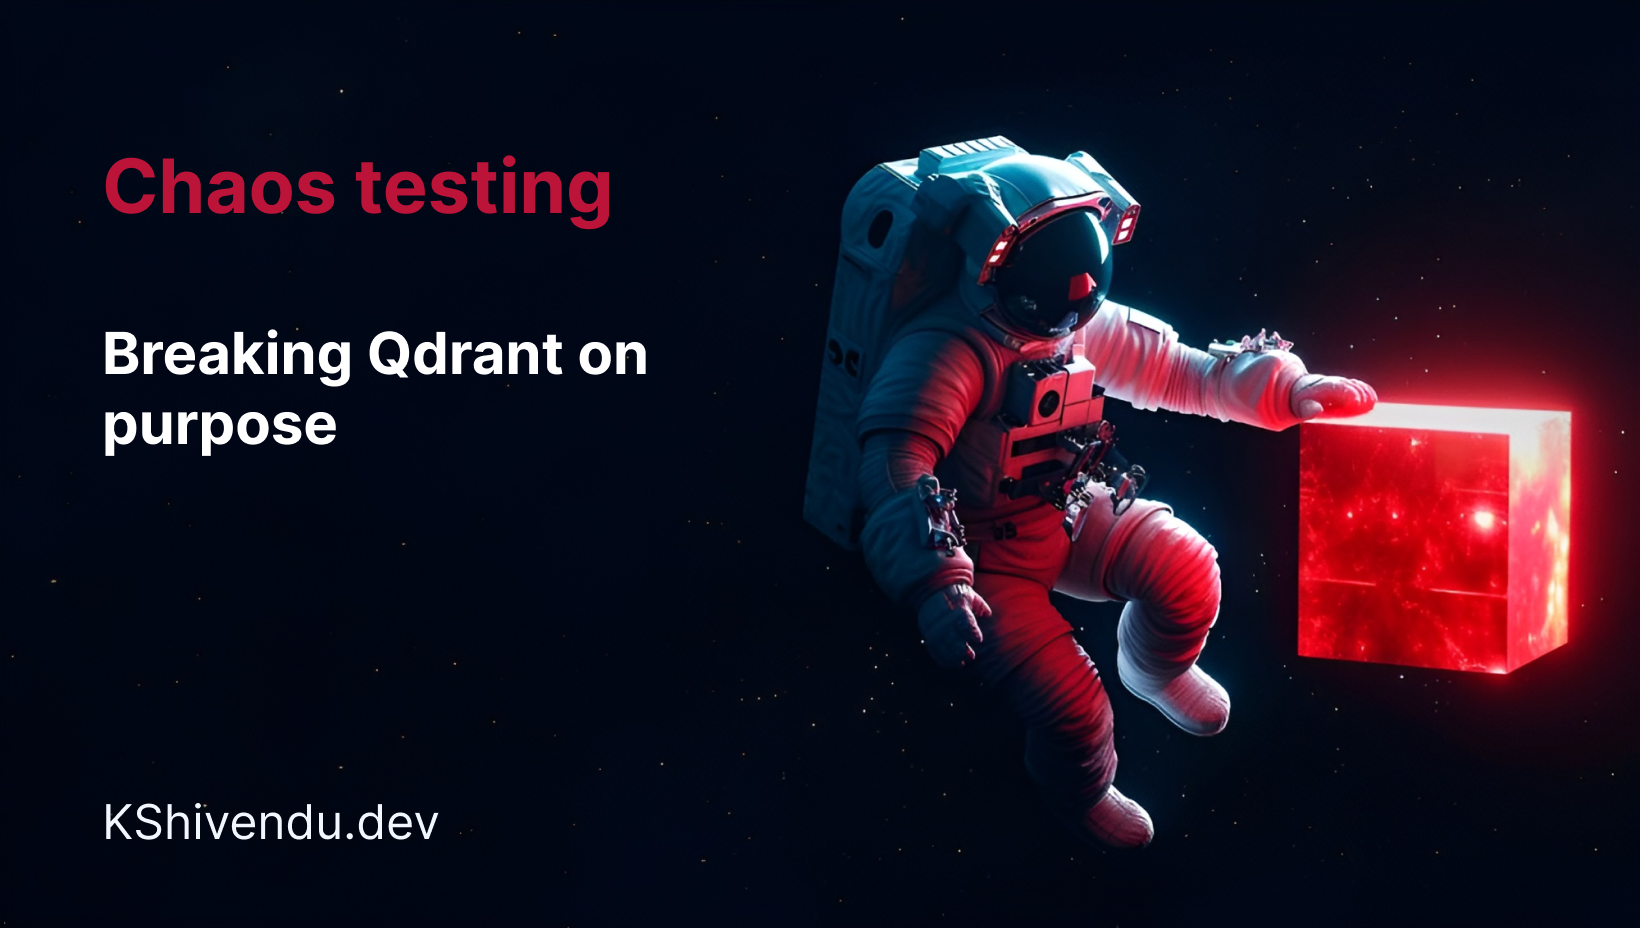
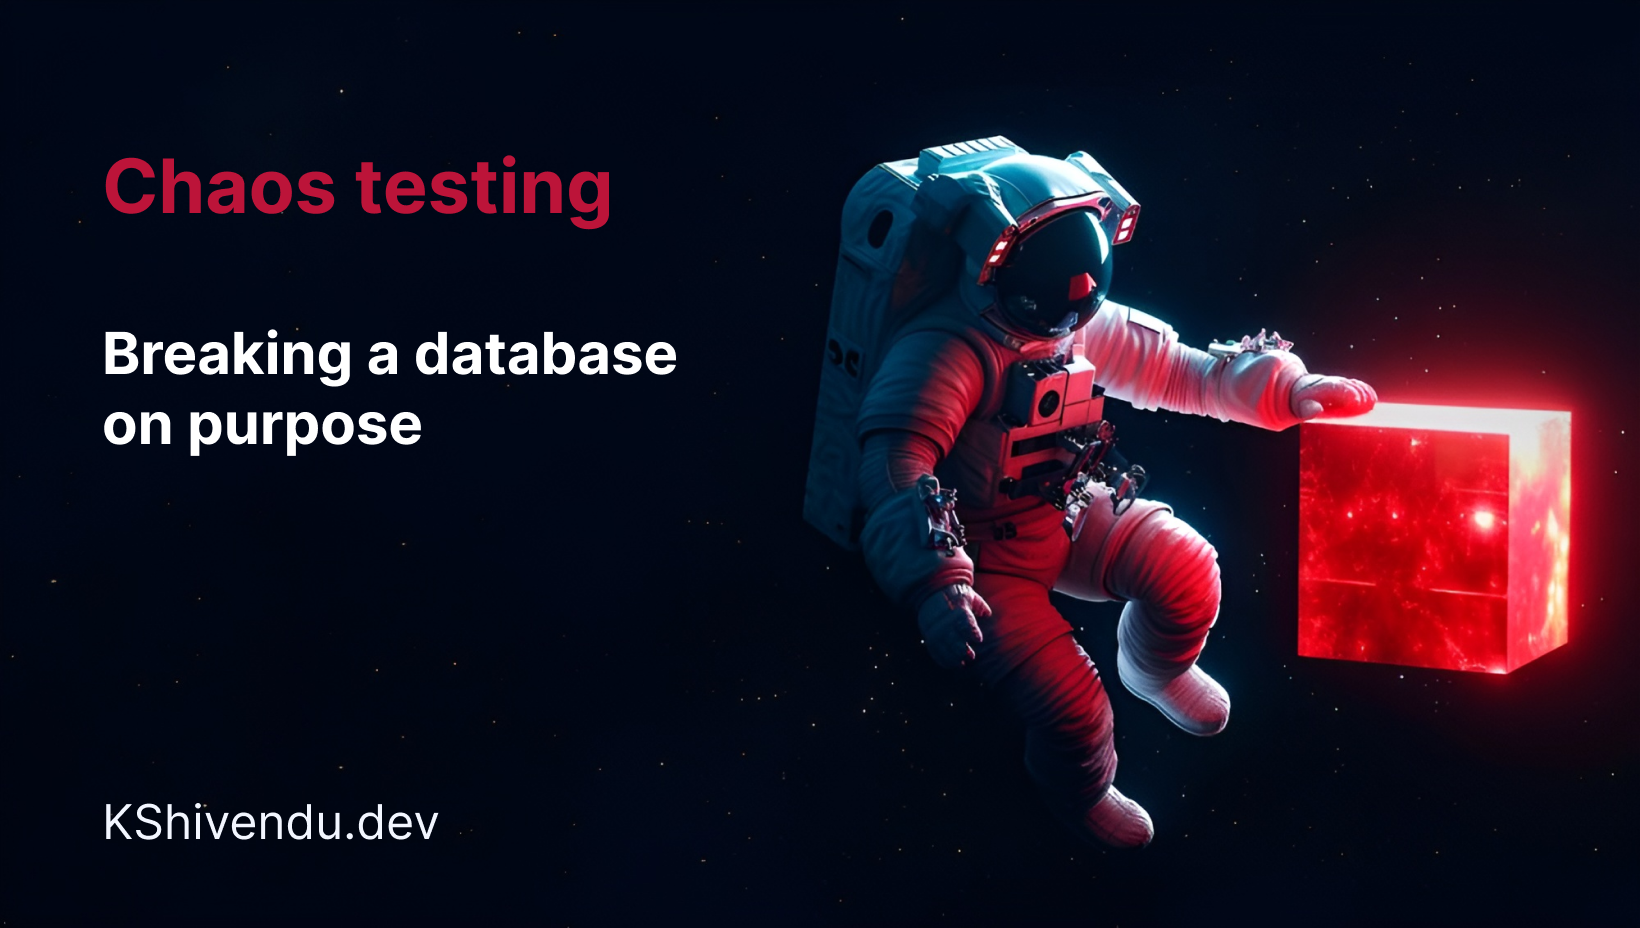
Update chaos testing talk title

Changed region(s): [[0.0622, 0.4375, 0.2799, 0.5], [0.2177, 0.3438, 0.4354, 0.4062]]

diff --git a/README.md b/README.md
@@ -1,6 +1,6 @@
 # Talks by KShivendu
 
-- Chaos testing: Breaking Qdrant on purpose
+- Chaos testing: Breaking a database on purpose
   - Event: FOSS Talks Feb 2025, PES, Bangalore
   - [Slides](/chaos-testing)
 
